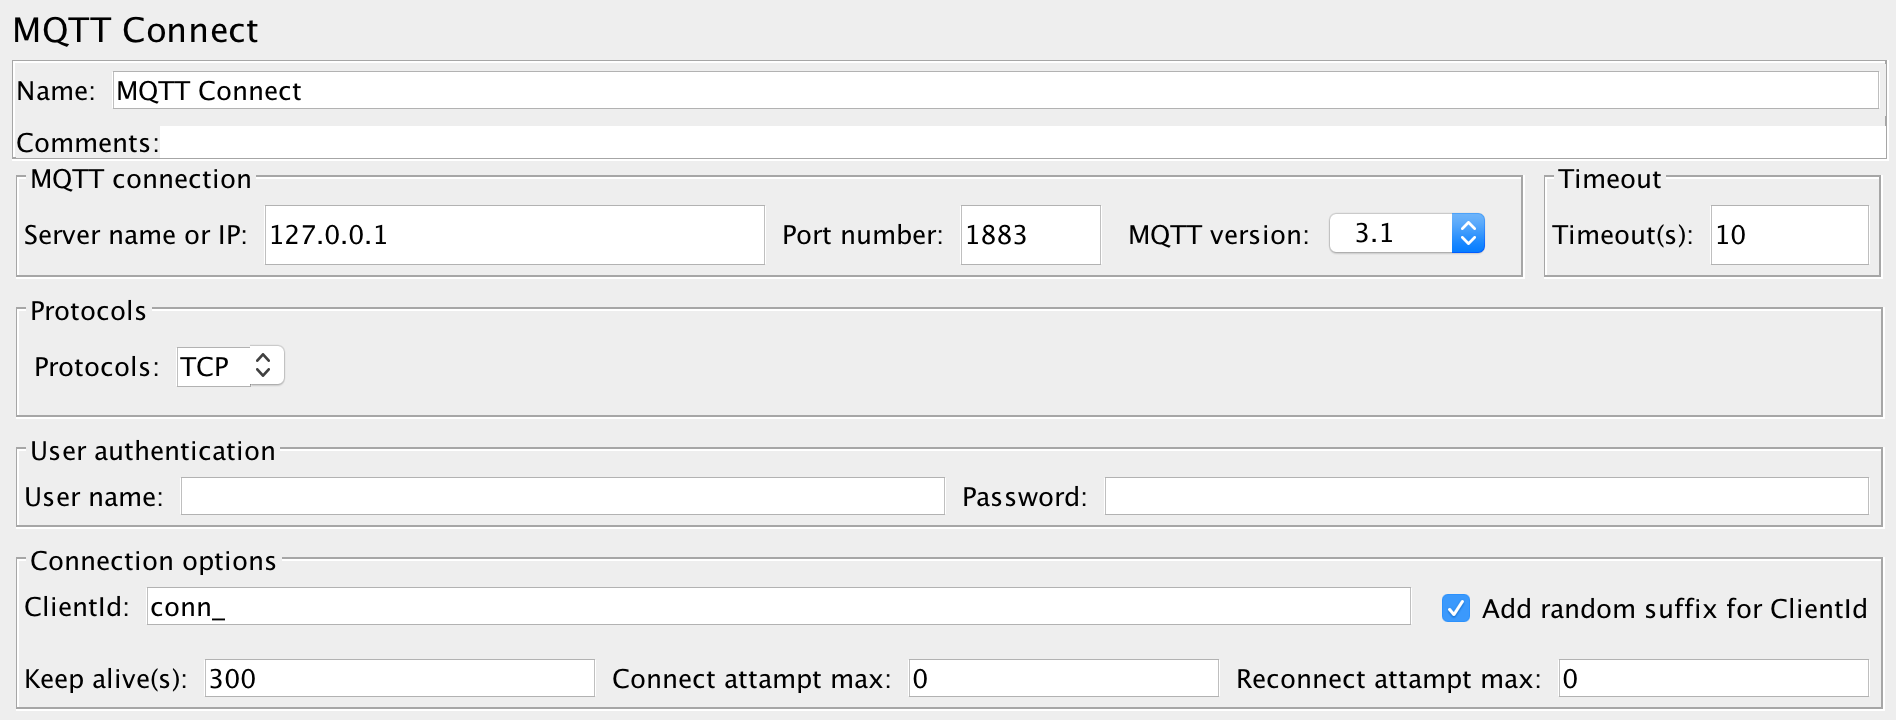
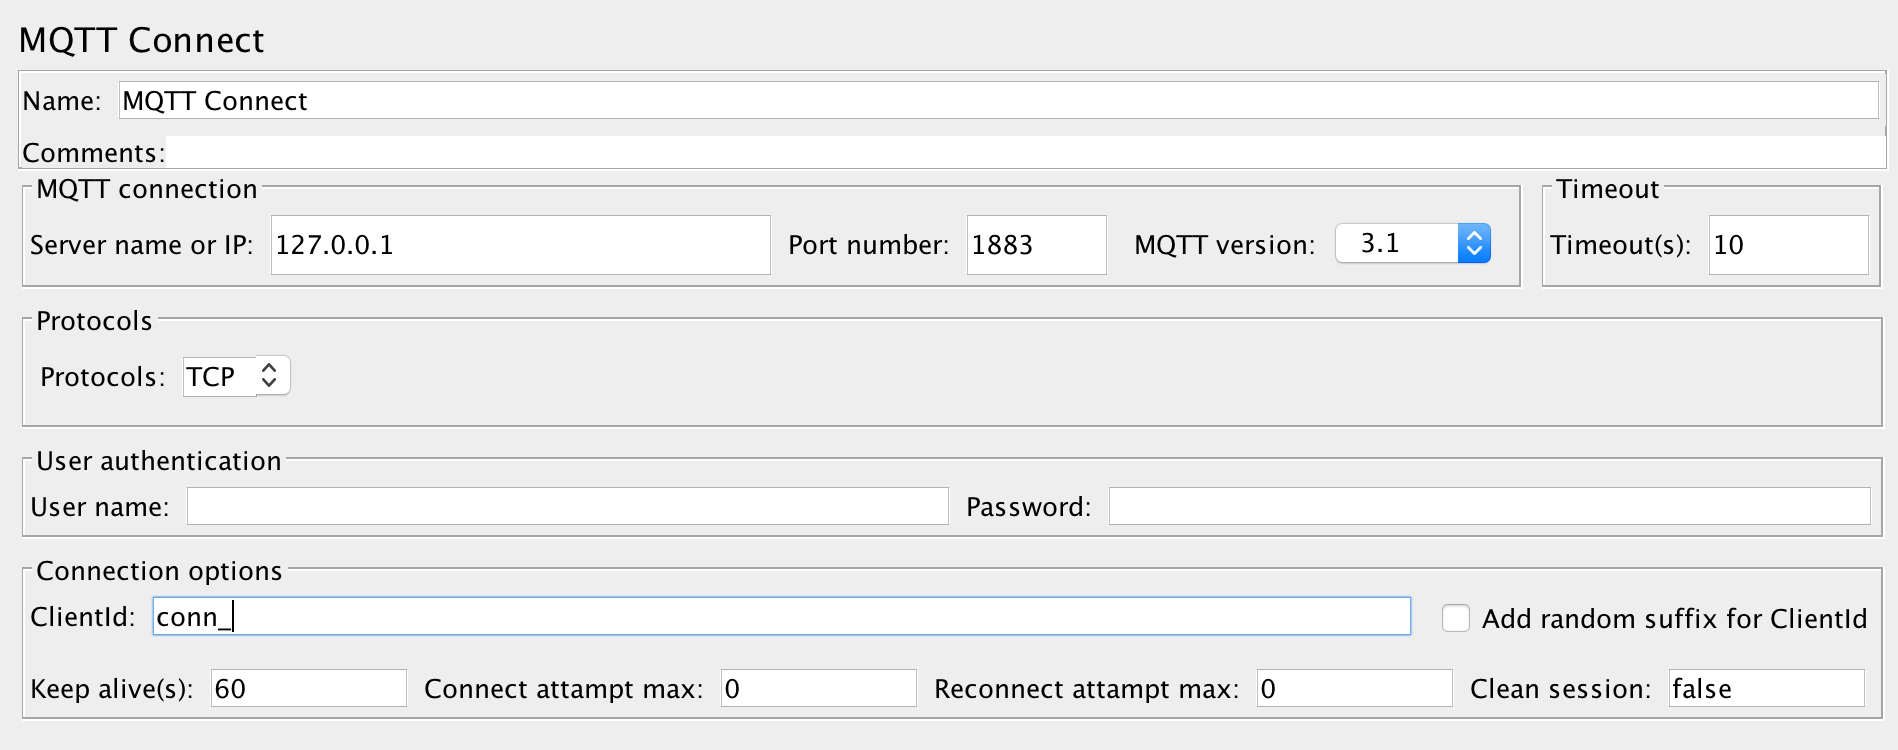
Update README

diff --git a/mqtt_jmeter/src/main/java/net/xmeter/gui/PubSamplerUI.java b/mqtt_jmeter/src/main/java/net/xmeter/gui/PubSamplerUI.java
@@ -26,7 +26,7 @@ public class PubSamplerUI extends AbstractSamplerGui implements Constants, Chang
 	private static final Logger logger = Logger.getLogger(PubSamplerUI.class.getCanonicalName());
 
 	private JLabeledChoice qosChoice;
-	private final JLabeledTextField retainedMsg = new JLabeledTextField("Retained message:", 1);
+	private final JLabeledTextField retainedMsg = new JLabeledTextField("Retained messages:", 1);
 	private final JLabeledTextField topicName = new JLabeledTextField("Topic name:");
 	private JCheckBox timestamp = new JCheckBox("Add timestamp in payload");
 

diff --git a/README.md b/README.md
@@ -64,12 +64,10 @@ User can configure MQTT server with user name & password authentication, refer t
 ### Connection options
 
 - **ClientId**: Identification of the client, i.e. virtual user or JMeter thread. Default value is 'conn_'. If 'Add random client id suffix' is selected, JMeter plugin will append generated uuid as suffix to represent the client, otherwise, the text of 'ClientId' will be passed as 'clientId' of current connection.
-
 - **Keep alive(s)**: Ping packet send interval in seconds. Default value is 300, which means each connection sends a ping packet to MQTT server every 5 minutes.
-
 - **Connect attampt max**: The maximum number of reconnect attempts before an error is reported back to the client on the first attempt by the client to connect to a server. Set to -1 to use unlimited attempts. Defaults to 0.
-
 - **Reconnect attampt max**:  The maximum number of reconnect attempts before an error is reported back to the client after a server connection had previously been established. Set to -1 to use unlimited attempts. Defaults to 0.
+- **Clean session**: If you want to maintaining state information between sessions, set it to false; otherwise, set it to true.
 
 
 ## Pub Sampler
@@ -80,9 +78,8 @@ Pub sampler reuses previously established connection (by Connect sampler) to pub
 ### Pub options
 
 - **QoS level**: The available QoS value, 0 is AT_MOST_ONCE, 1 is AT_LEAST_ONCE and 2 is EXACTLY_ONCE.
-
+- **Retained messages**: Set it to true if the Pub sampler wants the broker to keep the last message on that topic, so the client subscribed to that topic receives the retained message immediately after subscription.
 - **Topic name**: Name of the topic that the message will be sent to.
-
 - **Add timestamp in payload**: Add timestamp in the payload or not. If the checkbox is enabled, then timestamp of running pub sampler will be added before real payload. Mostly it's used together with **Sub sampler** to calculate message latency time.
 
 ### Payloads
